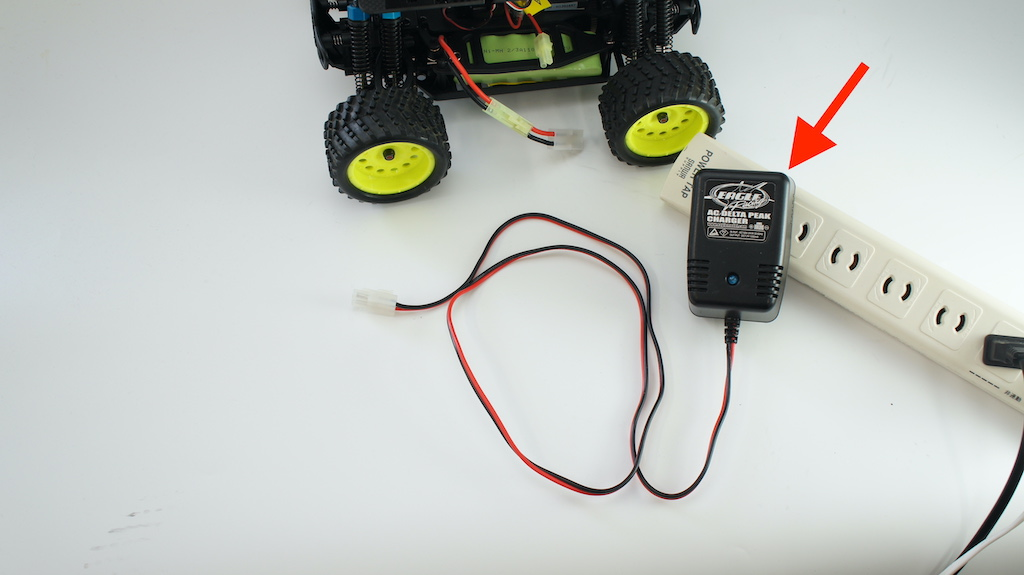
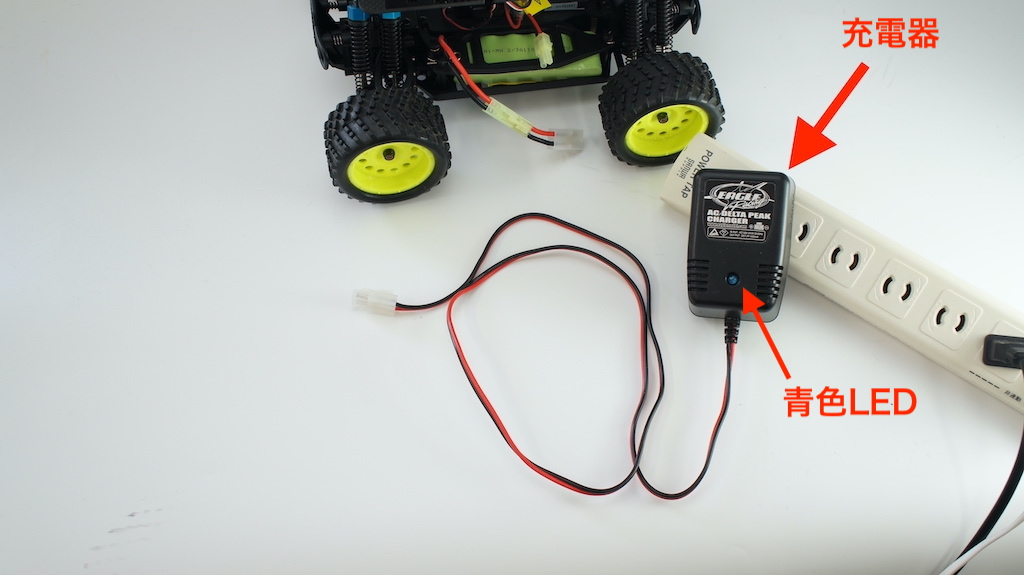
Deployed 03ace37 with MkDocs version: 1.1.2

Changed region(s): [[0.75, 0.5913, 0.9062, 0.7391], [0.8125, 0.0296, 0.9375, 0.0887], [0.7188, 0.5026, 0.75, 0.5913]]

diff --git a/9.その他/00.BatteryCharge/index.html b/9.その他/00.BatteryCharge/index.html
@@ -788,7 +788,7 @@
 <p class="admonition-title">警告</p>
 <p>必ず指定の充電器をご使用ください。</p>
 </div>
-<p>家庭用AC100Vに充電器(イーグル模型#2638)を接続します。</p>
+<p>家庭用AC100Vに充電器(イーグル模型#2638)を接続します。接続するとすぐ充電器のコンデンサーの残留がなく充電ができる状態ならば充電器の青色のLEDが1回だけ点滅します。</p>
 <p><img alt="" src="../img/DKMC-011.JPG" /></p>
 <p>RCカーのバッテリ（変換コネクタ装着済み）と充電器を接続します。</p>
 <p><img alt="" src="../img/DKMC-012.JPG" /></p>
